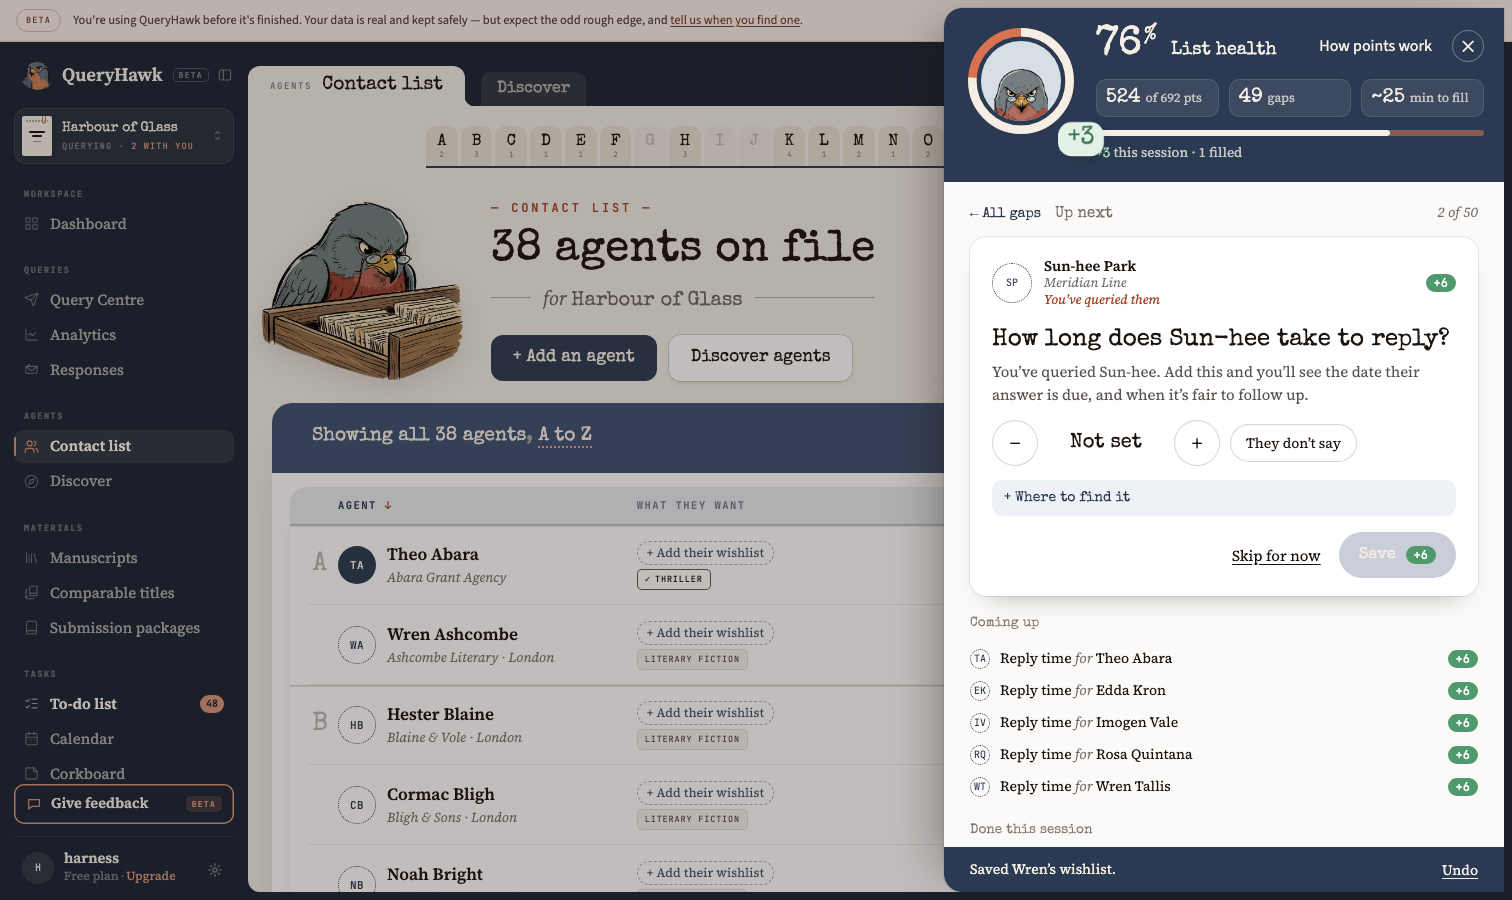
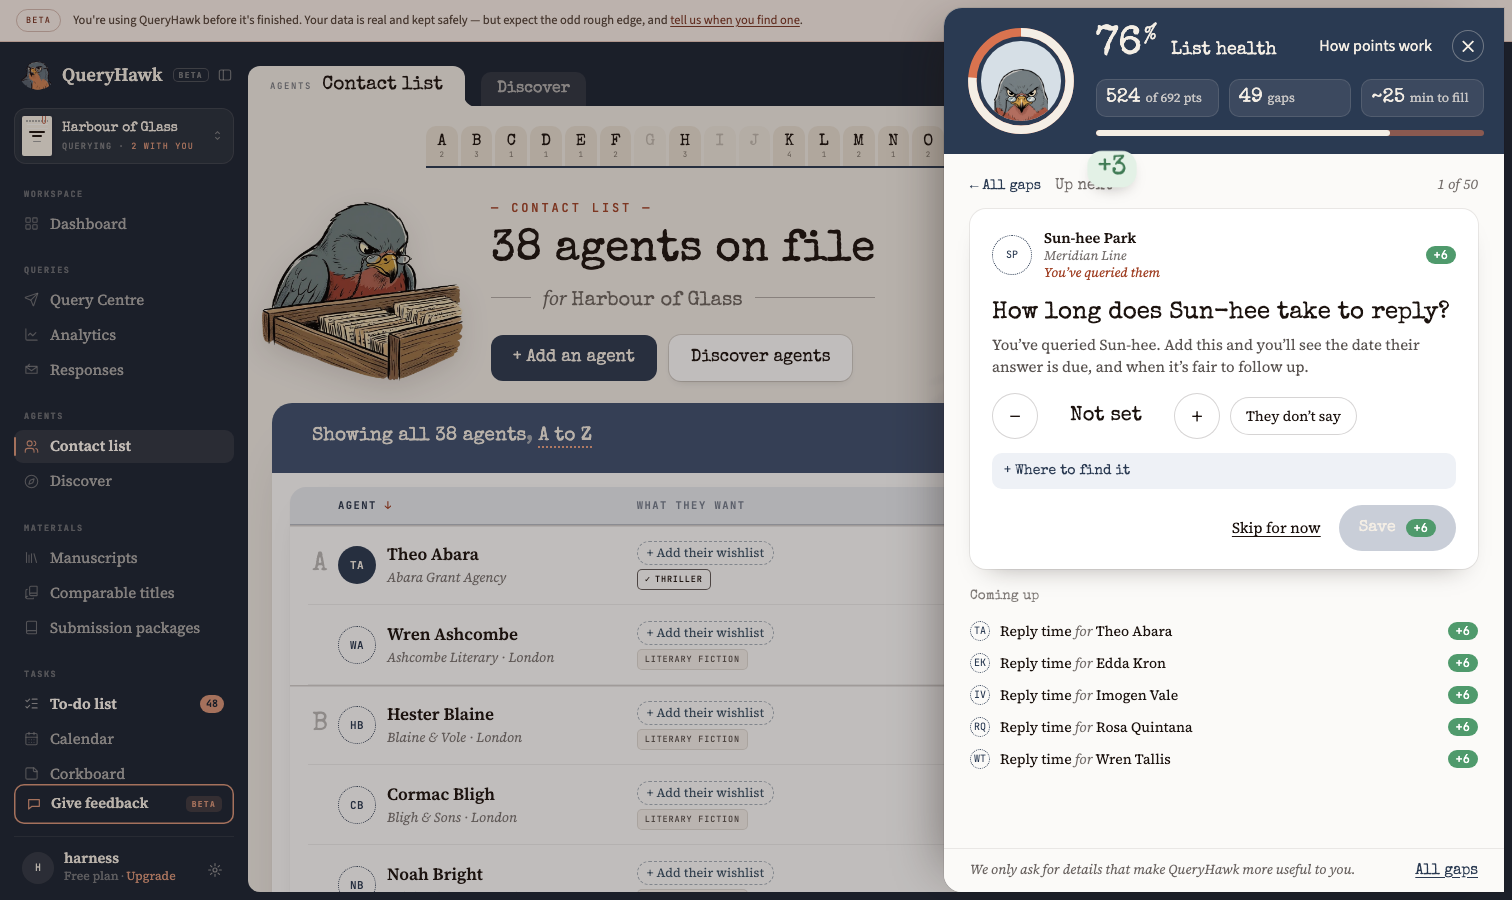
Contact list v18.2: record the dev deploy (index-BboeA1eL.js) and the merged build's locks and shots.

Changed region(s): [[0.6217, 0.56, 0.9947, 0.9956], [0.6217, 0.1244, 0.9947, 0.56]]

diff --git a/reports/contact-list-v18-2/REPORT.md b/reports/contact-list-v18-2/REPORT.md
@@ -168,3 +168,24 @@ and `19-hk-save-flight-1512.png` (the flight mid-arc, 400ms after Save). The loc
   the harness account List health is unchanged by this pack (the points table and formula are untouched; 77% before
   and after on the same data). The order changes only among ties: equal-points tasks now put queried agents first, then
   sort by name, where the old score mixed fit and queried.
+
+## Deploy (16 Oct, after the approved header resolution)
+
+- **Dev before:** `index-DQqNyNdX.js`, `dev/main-cl18-todo51-cl181-qc1385-an21` at `1e60a775` (main + Contact list v18 +
+  To-do v5.1 + Contact list v18.1 + Query Centre v138.5 + Analytics v21). Dev had moved twice since the first attempt.
+- **Integration branch:** `dev/main-cl18-todo51-cl181-qc1385-an21-cl182` at `0af3f810`: the merge `afe1445f` (two
+  conflicts: `.refhashes.json` as a union, 394 refs; `ContactLightHeader.tsx` keeping v138.5's `.phf` class and import
+  with v18.2's title row), then `0af3f810`, which deletes `--cl182-inset` and pulls the archivist from `--phf-inset`.
+  No script writes the inset; the one ResizeObserver still writes only the archivist's height, as before.
+- **Dev after:** `index-BboeA1eL.js`, built from a clean checkout of the pushed tip. Dev was checked again immediately
+  before the deploy and had not moved (Query Centre v138.6 was pushed but not deployed, so it is NOT in this build).
+- **Gates on the merged tree:** tsc 0, both builds clean, Vitest 593 of 594 files (8,919 passed), the one red being the
+  baseline `functions/src/email.test.ts`.
+- **Locks on the merged build:** CL182 23 passed (184 readings), with A1 to A4 read fresh at 1512 and 1280 and the
+  archivist hidden at 1024. A1 and A2 went red again under their named mutations on this build (4 and 2 readings).
+  QC138.5 12 passed; QC138, 138.1, 138.1 census, 138.3, 138.4 all green; 138.2 has 1 red, D1, the known frame-timing
+  flake on both builds. CL181, CL18, CL17, CL16, RS2 (Responses v2's locks; there is no RS1) and header v3 green.
+  CL171 had one red (D2, the tab dismissal's stored value read null after a reload) that passed on a re-run on both this
+  build and the dev tip.
+- **Header shots from the merged build:** `shots/01-header-1512.png`, `shots/01-header-1280.png`,
+  `shots/x-header-1024.png`.
